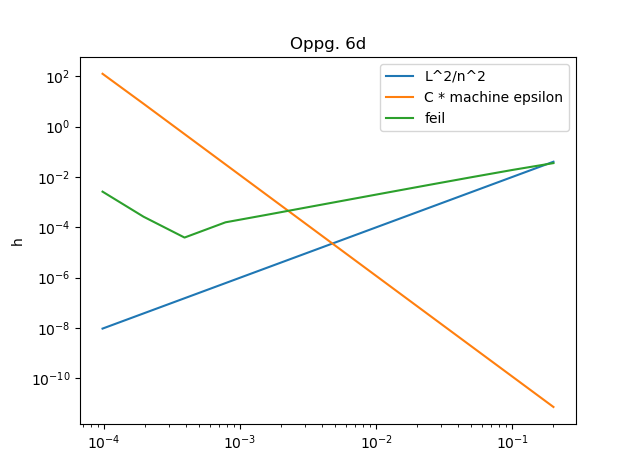
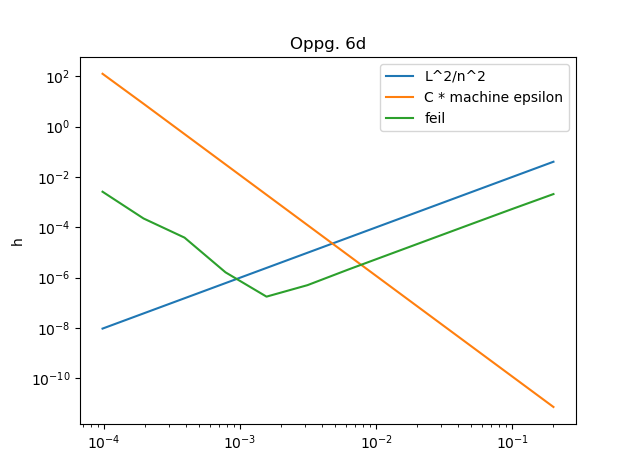
k

diff --git a/python oppg.py b/python oppg.py
@@ -7,6 +7,7 @@ import numpy as np
 from numpy import linalg
 import math
 import matplotlib.pyplot as pl
+import time
 
 g = -9.81 #gravity constant earth (negative)
 L = 2.0 #length
@@ -56,7 +57,7 @@ def getB7(n):
     b = getB(n)
 
     for x in range(n):
-        if (L - h*x <= fl):
+        if (L - h*(x+1) <= fl):
             b[x] -= ((h) ** 4 / (E * I)) * g * mp/fl
     return b
 
@@ -146,10 +147,21 @@ print("4.e. Fram. feil: ", linalg.norm((y - y_e), 1), "\n"); # feilen er for å 
 print("4.e. Maskin epsilon: ", emach);
 n = m;
 
+#utregninger for oppg 5, 6, 7
+startTime = time.time()
+oppg5data = oppg5(12)
+print("Oppg 5 tid: ", time.time()-startTime, "s")
+startTime = time.time()
+oppg6data = oppg6b(12)
+print("Oppg 6 tid: ", time.time()-startTime, "s")
+startTime = time.time()
+oppg7data = oppg7(8)
+print("Oppg 7 tid: ", time.time()-startTime, "s")
+startTime = time.time()
+
 print("Oppg. 5")
 arrayY5 = []
 arrayX5 = []
-oppg5data = oppg5(10)
 for e in oppg5data:
     print(e)
     arrayX5.append(e["h"])
@@ -166,7 +178,6 @@ pl.show()
 
 
 print("Oppg. 6b")
-oppg6data = oppg6b(10)
 for e in oppg6data:
     print(e)
 
@@ -212,11 +223,16 @@ pl.show()
 
 
 print("Oppg. 6f")
-print("Den optimale verdien av n er 5120, fordi dette gir lavest feil. Dette er fordi h^4 blir nære marskinepsilon og derfor blir mer unøyaktig etter dette punktet")
+lowYDiff = np.infty
+lowYDiffN = 1
+for e in oppg6data:
+    if (np.fabs(e["yDiff"]) < lowYDiff):
+        lowYDiff = np.fabs(e["yDiff"])
+        lowYDiffN = e["n"]
+print("Den optimale verdien av n er " + str(lowYDiffN) + ", fordi dette gir lavest feil. Dette er fordi h^4 blir nære marskinepsilon og derfor blir mer unøyaktig etter dette punktet(feil?)")
 
 print("Oppg. 7")
 
-oppg7data = oppg7(9)
 #for e in oppg7data:
     #print(e)
 print("Stupebrettet bøyes ned " + str(oppg7data[3]["y"][-1]) + " m.")
